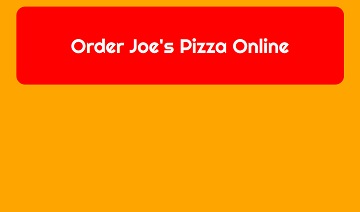
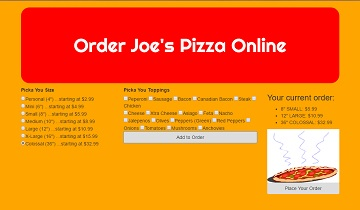
update README and screenshot

Changed region(s): [[0.0, 0.0, 1.0, 0.9429], [0.1833, 0.1714, 0.825, 0.2571]]

diff --git a/index.html b/index.html
@@ -18,7 +18,7 @@
 
           <form id="orderForm">
             <div class="row">
-              <div class="form-group col-xs-6">
+              <div class="form-group col-xs-5">
                 <label for="pizzaSize">Picka You Size</label>
                 <br><input type="radio" name="size" value="personal">Personal (4") ...starting at $2.99
                 <br><input type="radio" name="size" value="mini">Mini (6") ...starting at $4.99
@@ -28,7 +28,7 @@
                 <br><input type="radio" name="size" value="xlarge">X-Large (16") ...starting at $15.99
                 <br><input type="radio" name="size" value="colossal">Colossal (36") ...starting at $32.99
               </div>
-              <div class="form-group col-xs-6">
+              <div class="form-group col-xs-7">
                 <label for="toppings">Picka You Toppings</label>
                 <br>
                 <input type="checkbox" id="peperoni" name="toppings">Peperoni

diff --git a/README.md b/README.md
@@ -1,7 +1,7 @@
 # [Joe's Pizza](http://karenfreemansmith.github.io/pizza)
 ![project screenshot](/img/screenshot.jpg)
 
-__Version 1: April 18, 2016__
+__Version 1: April 27, 2016__
 ## by [Karen Freeman-Smith](http://karenfreemansmith.github.io)
 
 ### Description
@@ -21,7 +21,8 @@ __*A website to order a pizza.*__
 For questions or comments, please __email [Karen](karenfreemansmith@gmail.com)__
 
 ### Known Issues
-* Under Construction
+* Doesn't do anything with toppings yet
+* Needs to total order
 
 ### Technologies Used
 ###### HTML, CSS, Bootstrap, JavaScript, jQuery
